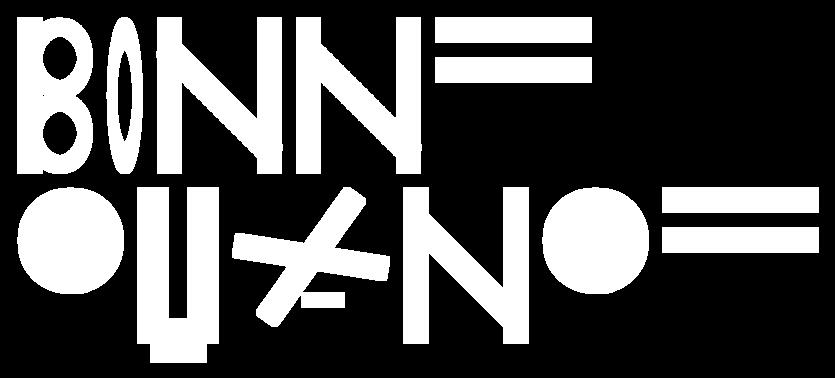
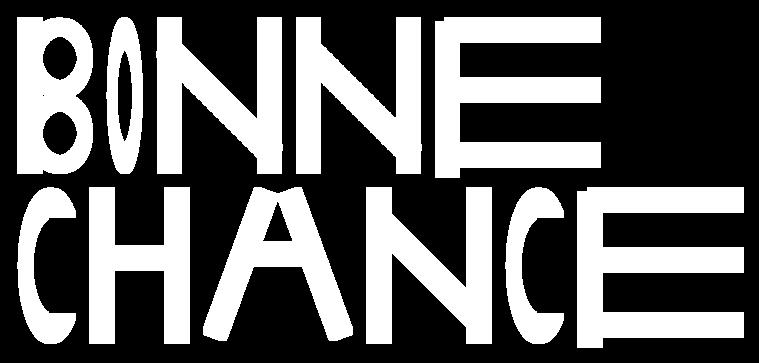
Remise Finale TP1
Tout les tests sont fonctionnels

diff --git a/src/main/java/Letter/LetterFactory.java b/src/main/java/Letter/LetterFactory.java
@@ -19,29 +19,24 @@ public final class LetterFactory {
     public static BaseShape create_A()  {
         BaseShape letterA = new BaseShape();
 
-        // Créer les deux rectangles identiques
-        Rectangle leftRectangle = new Rectangle(stripeThickness, maxHeight);
-        Rectangle rightRectangle = new Rectangle(stripeThickness, maxHeight);
+        Rectangle rectangleAngulaire1 = new Rectangle(stripeThickness,maxHeight);
+        Rectangle rectangleAngulaire2 = new Rectangle(stripeThickness,maxHeight);
+        Rectangle rectangleHorizontal = new Rectangle(stripeThickness,halfMaxHeight);
 
-        // Faire pivoter un rectangle de 30 degrés
-        leftRectangle.rotate(leftRectangle.getCoords(), 30.0);
+        rectangleAngulaire1.rotate(rectangleAngulaire1.getCoords(),0.3490658504);
+        rectangleAngulaire2.rotate(rectangleAngulaire2.getCoords(),-0.3490658504 );
+        rectangleHorizontal.rotate(rectangleHorizontal.getCoords(),(3.1415926536/2));
 
-        // Faire pivoter l'autre rectangle de 120 degrés
-        rightRectangle.rotate(rightRectangle.getCoords(), 120.0);
+        Point2d rectangle1Position = new Point2d(rectangleHorizontal.getMinX(), 50.0);
+        Point2d rectangle2Position = new Point2d(rectangleHorizontal.getMaxX(), 50.0);
+        Point2d rectangleHorizontalPosition = new Point2d(0.0, 40.0);
+        rectangleAngulaire1.translate(rectangleAngulaire1.getCoords(),rectangle1Position );
+        rectangleAngulaire2.translate(rectangleAngulaire2.getCoords(),rectangle2Position );
+        rectangleHorizontal.translate(rectangleHorizontal.getCoords(),rectangleHorizontalPosition );
 
-        // Créer un autre rectangle entre les deux
-        Rectangle centerRectangle = new Rectangle(halfMaxHeight / 2, halfStripeThickness);
-
-        // Positionner le rectangle central entre les deux autres
-        double centerY = (leftRectangle.getMaxY() + rightRectangle.getMaxY()) / 2;
-        double centerX = (leftRectangle.getMaxX() + rightRectangle.getMinX()) / 2;
-        Point2d centerPosition = new Point2d(centerX, centerY);
-        centerRectangle.translate(centerRectangle.getCoords(), centerPosition);
-
-        // Ajouter les rectangles à la lettre B
-        letterA.addAll(leftRectangle.getCoords());
-        letterA.addAll(rightRectangle.getCoords());
-        letterA.addAll(centerRectangle.getCoords());
+        letterA.add(rectangleAngulaire1);
+        letterA.add(rectangleAngulaire2);
+        letterA.add(rectangleHorizontal);
 
         return letterA;
     }
@@ -65,19 +60,15 @@ public final class LetterFactory {
         ellipse1.translate(ellipse1.getCoords(),Ellipse1Position );
         Ellipse2.translate(Ellipse2.getCoords(),Ellipse2Position );
 
-
         Rectangle rectangleVertical = new Rectangle(stripeThickness,maxHeight);
         Point2d rectangleVerticalPosition = new Point2d(( ellipse1.getMinX()),0.0);
         rectangleVertical.translate(rectangleVertical.getCoords(),rectangleVerticalPosition);
-
-
 
         letterB.add(ellipse1);
         letterB.add(Ellipse2);
         letterB.add(rectangleVertical);
 
         return letterB;
-
     }
 
     /** TODO
@@ -87,24 +78,17 @@ public final class LetterFactory {
     public static BaseShape create_C() {
         BaseShape letterD = new BaseShape();
 
-        // Créez une grande ellipse pour la forme principale de la lettre D
-        double largeEllipseDiameter = 100.0; // Ajustez la taille de l'ellipse selon vos besoins
-        Ellipse largeEllipse = new Ellipse(largeEllipseDiameter, largeEllipseDiameter);
+        Ellipse ellipse1 = new Ellipse(maxWidth,maxHeight);
+        Ellipse ellipseVide = new Ellipse(maxWidth/1.5,maxHeight/1.5);
 
-        // Ajoutez la grande ellipse à la lettre D
-        letterD.add(largeEllipse);
+        Rectangle rectangleVertical = new Rectangle(stripeThickness+30,maxHeight/1.5);
+        Point2d rectangleVerticalPosition = new Point2d((ellipse1.getMaxX()-10),0.0);
+        rectangleVertical.translate(rectangleVertical.getCoords(),rectangleVerticalPosition);
 
-        // Créez une petite ellipse pour former le trou dans la lettre D
-        double smallEllipseDiameter = 50.0; // Ajustez la taille de l'ellipse selon vos besoins
-        Ellipse smallEllipse = new Ellipse(smallEllipseDiameter, smallEllipseDiameter);
+        ellipse1.remove(ellipseVide);
+        ellipse1.remove(rectangleVertical);
 
-        // Positionnez la petite ellipse à l'intérieur de la grande ellipse pour former le trou
-        double distanceFromLargeEllipse = 20.0; // Ajustez la distance de la petite ellipse par rapport à la grande ellipse selon vos besoins
-        Point2d smallEllipsePosition = new Point2d(largeEllipseDiameter / 2 - smallEllipseDiameter / 2 - distanceFromLargeEllipse, largeEllipseDiameter / 2 - smallEllipseDiameter / 2);
-        smallEllipse.translate(smallEllipse.getCoords(), smallEllipsePosition);
-
-        // Ajoutez la petite ellipse à la lettre D
-        letterD.add(smallEllipse);
+        letterD.add(ellipse1);
 
         return letterD;
     }
@@ -121,31 +105,28 @@ public final class LetterFactory {
         Rectangle rectangleHorizontal3 = new Rectangle(stripeThickness,maxHeight);
         Rectangle rectangleVertical = new Rectangle(stripeThickness,maxHeight);
 
-
-        // Rotation du rectangle d'un angle de 90 (pour etre horizontal)
         rectangleHorizontal1.rotate(rectangleHorizontal1.getCoords(),1.5707963268);
         rectangleHorizontal2.rotate(rectangleHorizontal2.getCoords(),1.5707963268);
         rectangleHorizontal3.rotate(rectangleHorizontal3.getCoords(),1.5707963268);
 
+        double offset = 5.0;
 
+        Point2d translateur1 = new Point2d(0.0, -maxHeight + 20);
+        rectangleHorizontal1.translate(rectangleHorizontal1.getCoords(), translateur1);
 
-        Point2d translateur2 = new Point2d(0.0,-40.0);
-        rectangleHorizontal2.translate(rectangleHorizontal2.getCoords(),translateur2);
+        Point2d translateur2 = new Point2d(0.0, -halfMaxHeight + offset );
+        rectangleHorizontal2.translate(rectangleHorizontal2.getCoords(), translateur2);
 
-        Point2d translateur3 = new Point2d(0.0,-80.0);
-        rectangleHorizontal3.translate(rectangleHorizontal3.getCoords(),translateur2);
+        Point2d translateur3 = new Point2d(0.0, - offset);
+        rectangleHorizontal3.translate(rectangleHorizontal3.getCoords(), translateur3);
 
-        Point2d translateur4 = new Point2d(-65.0,0.0);
-        rectangleVertical.translate(rectangleVertical.getCoords(),translateur4);
-
-
-
+        Point2d translateurVertical = new Point2d(rectangleHorizontal2.getMinX(), rectangleHorizontal2.getMaxY());
+        rectangleVertical.translate(rectangleVertical.getCoords(), translateurVertical);
 
         letterE.add(rectangleHorizontal1);
         letterE.add(rectangleHorizontal2);
         letterE.add(rectangleHorizontal3);
-
-
+        letterE.add(rectangleVertical);
 
         return letterE;
     }
@@ -156,40 +137,24 @@ public final class LetterFactory {
      */
     public static BaseShape create_H() {
         BaseShape letterH = new BaseShape();
+        Rectangle rectangleVertical1 = new Rectangle(stripeThickness,maxHeight);
+        Rectangle rectangleVertical2 = new Rectangle(stripeThickness,maxHeight);
+        Rectangle rectangleHorizontal = new Rectangle(stripeThickness,halfMaxHeight);
 
-        // Largeur et hauteur des rectangles
-        Double width = 100.0; // Ajustez la largeur selon vos besoins
-        Double height = 150.0; // Ajustez la hauteur selon vos besoins
+        rectangleHorizontal.rotate(rectangleHorizontal.getCoords(),1.5707963268);
 
-        // Créer le rectangle vertical gauche
-        Rectangle leftRectangle = new Rectangle(width / 4, height);
+        Point2d translateur1 = new Point2d(rectangleHorizontal.getMinX(),  0.0);
+        rectangleVertical1.translate(rectangleVertical1.getCoords(), translateur1);
 
-        // Positionner le rectangle vertical gauche
-        Point2d leftRectanglePosition = new Point2d(0.0, 0.0);
-        leftRectangle.translate(leftRectangle.getCoords(), leftRectanglePosition);
+        Point2d translateur2 = new Point2d(rectangleHorizontal.getMaxX(),  0.0 );
+        rectangleVertical2.translate(rectangleVertical2.getCoords(), translateur2);
 
-        // Ajouter le rectangle vertical gauche à la lettre H
-        letterH.add(leftRectangle);
+        Point2d translateur3 = new Point2d(0.0, -(rectangleVertical1.getMaxY()/2)+30.0);
+        rectangleHorizontal.translate(rectangleHorizontal.getCoords(), translateur3);
 
-        // Créer le rectangle horizontal
-        Rectangle centerRectangle = new Rectangle(width / 2, height / 4);
-
-        // Positionner le rectangle horizontal
-        Point2d centerRectanglePosition = new Point2d(width / 4, height / 2);
-        centerRectangle.translate(centerRectangle.getCoords(), centerRectanglePosition);
-
-        // Ajouter le rectangle horizontal à la lettre H
-        letterH.add(centerRectangle);
-
-        // Créer le rectangle vertical droit
-        Rectangle rightRectangle = new Rectangle(width / 4, height);
-
-        // Positionner le rectangle vertical droit
-        Point2d rightRectanglePosition = new Point2d(width / 2, 0.0);
-        rightRectangle.translate(rightRectangle.getCoords(), rightRectanglePosition);
-
-        // Ajouter le rectangle vertical droit à la lettre H
-        letterH.add(rightRectangle);
+        letterH.add(rectangleVertical1);
+        letterH.add(rectangleVertical2);
+        letterH.add(rectangleHorizontal);
 
         return letterH;
     }
@@ -201,13 +166,11 @@ public final class LetterFactory {
     public static BaseShape create_N() {
         BaseShape letterN = new BaseShape();
 
-
         Rectangle rectangleVertical1 = new Rectangle(stripeThickness,maxHeight);
         Rectangle rectangleVertical2 = new Rectangle(stripeThickness,maxHeight);
         Rectangle rectangleAngulaire = new Rectangle(stripeThickness,maxHeight);
-        // Rotation du rectangle d'un angle de 45 degres
-        rectangleAngulaire.rotate(rectangleAngulaire.getCoords(),-0.7853981634);
 
+        rectangleAngulaire.rotate(rectangleAngulaire.getCoords(),-0.7853981634);
 
         Point2d rectangle1Position = new Point2d(( -50.0),0.0);
         rectangleVertical1.translate(rectangleVertical1.getCoords(),rectangle1Position);
@@ -222,7 +185,6 @@ public final class LetterFactory {
         letterN.add(rectangleVertical2);
         letterN.add(rectangleAngulaire);
 
-
         return letterN;
     }
 
@@ -231,21 +193,14 @@ public final class LetterFactory {
      * @return BaseShape containing the letter O
      */
     public static BaseShape create_O() {
-        // Créez une BaseShape pour contenir la lettre
         BaseShape letterO = new BaseShape();
 
-
-        // Créez une ellipse centrée sur (0,0) avec le diamètre spécifié
         Ellipse ellipse = new Ellipse(halfMaxWidth, maxHeight);
 
-
-        // Créez une ellipse vide sur (0,0) avec le diamètre spécifié
         Ellipse ellipseVide = new Ellipse(halfMaxWidth/1.5, maxHeight/1.5);
 
         ellipse.removeAll(ellipseVide.getCoords());
 
-
-        // Ajoutez l'ellipse à la lettre O
         letterO.add(ellipse);
 
         return letterO;

diff --git a/src/main/java/Shape/Ellipse.java b/src/main/java/Shape/Ellipse.java
@@ -16,13 +16,10 @@ public class Ellipse extends BaseShape {
             double semiMajorAxis = widthDiameter / 2;
             double semiMinorAxis = heightDiameter / 2;
 
-            // Iterate over points within the bounding rectangle of the ellipse
             for (double x = -semiMajorAxis; x <= semiMajorAxis; x += 0.5) {
                 for (double y = -semiMinorAxis; y <= semiMinorAxis; y += 0.5) {
-                    // Use the equation of the ellipse to determine if the point is inside
                     double value = (x * x) / (semiMajorAxis * semiMajorAxis) + (y * y) / (semiMinorAxis * semiMinorAxis);
                     if (value <= 1) {
-                        // The point is inside the ellipse, add it to the shape
                         this.add(new Point2d(x, y));
                     }
                 }
@@ -38,7 +35,6 @@ public class Ellipse extends BaseShape {
      */
     public Ellipse(Point2d dimensions) {
         this(dimensions.X() * 2, dimensions.Y() * 2);
-
     }
 
     /**
@@ -47,7 +43,6 @@ public class Ellipse extends BaseShape {
      */
     private Ellipse(Collection<Point2d> coords) {
         this.addAll(coords);
-
     }
 
     /** TODO
@@ -55,15 +50,11 @@ public class Ellipse extends BaseShape {
      */
     @Override
     public Ellipse clone() {
-        // Create a new Ellipse instance
         Ellipse clonedEllipse = new Ellipse(0.0,0.0);
 
-        // Clone all the points from the current Ellipse to the new one
         for (Point2d point : this.getCoords()) {
             clonedEllipse.add(new Point2d(point.X(), point.Y()));
         }
-
         return clonedEllipse;
     }
-
 }

diff --git a/src/main/java/Shape/BaseShape.java b/src/main/java/Shape/BaseShape.java
@@ -129,7 +129,7 @@ public class BaseShape extends Transform implements Cloneable {
      * @return Maximum X coordinate of the shape
      */
     public Double getMaxX() {
-        double maxX = -Double.MAX_VALUE; // Initialize with smallest possible value
+        double maxX = -Double.MAX_VALUE;
         for (Point2d point : this.coords) {
             maxX = Math.max(maxX, point.X());
         }
@@ -140,7 +140,7 @@ public class BaseShape extends Transform implements Cloneable {
      * @return Maximum Y coordinate of the shape
      */
     public Double getMaxY() {
-        double maxY = -Double.MAX_VALUE; // Initialize with smallest possible value
+        double maxY = -Double.MAX_VALUE;
         for (Point2d point : this.coords) {
             maxY = Math.max(maxY, point.Y());
         }

diff --git a/src/main/java/Point/PointOperator.java b/src/main/java/Point/PointOperator.java
@@ -25,7 +25,6 @@ public final class PointOperator {
         int n = vector.length;
         Double[] result = new Double[n];
 
-        // Perform matrix-vector multiplication
         for (int i = 0; i < n; i++) {
             double sum = 0;
             for (int j = 0; j < n; j++) {
@@ -34,7 +33,6 @@ public final class PointOperator {
             result[i] = sum;
         }
 
-        // Update the original vector with the rotated values
         for (int i = 0; i < n; i++) {
             vector[i] = result[i];
         }

diff --git a/src/main/java/Shape/Rectangle.java b/src/main/java/Shape/Rectangle.java
@@ -13,8 +13,6 @@ public class Rectangle extends BaseShape {
     public Rectangle(Double width, Double height) {
         double halfWidth = width / 2;
         double halfHeight = height / 2;
-
-        // Iterate over the points within the rectangle and add them to the shape
         for (double x = -halfWidth; x <= halfWidth; x += 0.5) {
             for (double y = -halfHeight; y <= halfHeight; y += 0.5) {
                 this.add(new Point2d(x, y));
